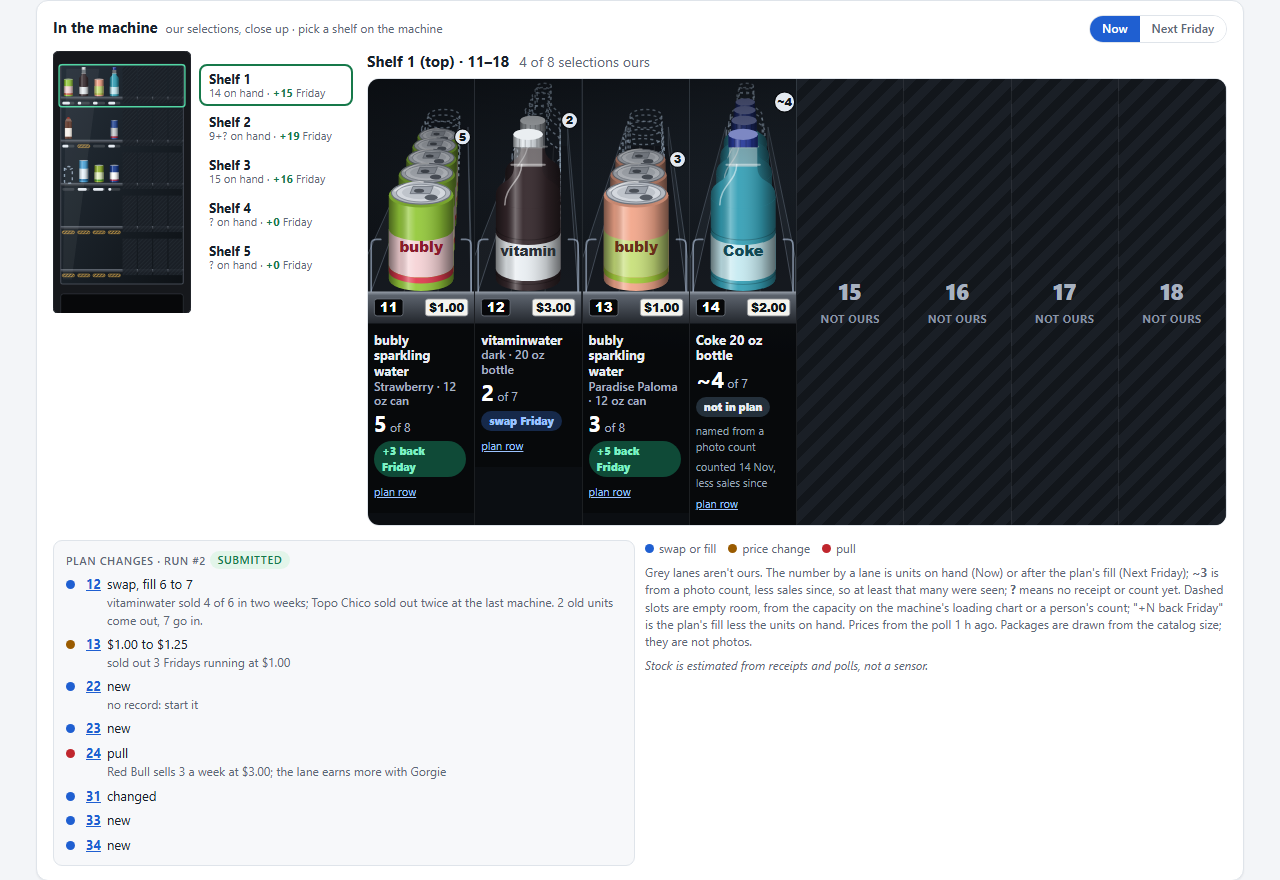
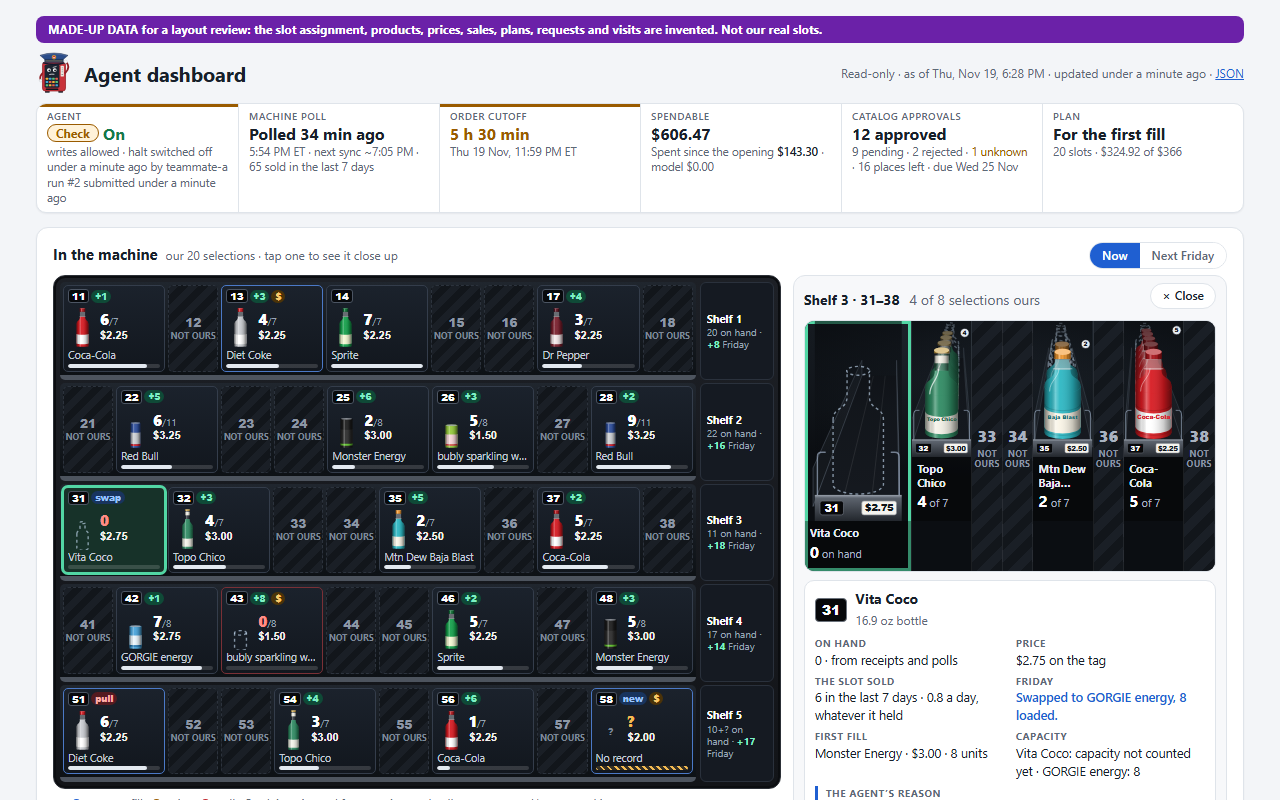
Docs: replace the dashboard pictures with the ops layout, made-up and labelled
current.png is the whole page; the four machine-closeup pictures show a
selection picked (light and dark), Next Friday after the slot lock, and
the phone's close-up sheet. All from a throwaway database with invented
data, a purple made-up-data banner and a scattered 20-slot assignment.
The captions say so and no longer describe columns.

diff --git a/docs/dashboard.md b/docs/dashboard.md
@@ -14,7 +14,7 @@ script or another agent.
 
 ![The dashboard with sample data](dashboard/current.png)
 
-*Sample data from a throwaway database, not a real run. **The highlighted columns in this picture are not our real slots.** For the screenshot our slots were set to columns 2, 4, 6 and 8, to show the page follows `vending.slots`. Our real slots are the ones the stored server assignment names (`python -m vending.slots`).*
+*Made-up data from a throwaway database, not a real run, and the purple banner says so. **The selections lit in this picture are not our real slots.** For the screenshot the stored assignment was set to 20 scattered selections, to show the page follows `vending.slots`. Our real slots are the ones the stored server assignment names (`python -m vending.slots`).*
 
 The money panel (#48), with seeded test data rendered at a fixed time (9 Dec): an opening of $600, two fulfilled
 requests, three model calls and one pending request. Light, dark and phone:
@@ -45,18 +45,18 @@ what changed and why.
 
 ### The machine close-up
 
-![In the machine, dark theme](dashboard/machine-closeup-dark.png)
+![In the machine with selection 31 picked, dark theme](dashboard/machine-closeup-dark.png)
 
 | | |
 |---|---|
 | ![Light theme](dashboard/machine-closeup-light.png) | ![Next Friday](dashboard/machine-closeup-next-friday.png) |
-| Light theme | Next Friday: a swap (12), a price change (13) |
+| Light theme, before the slot lock: 31 picked | After the lock, Next Friday: a swap (31), new prices (13, 43, 58), a pull (51) |
 
-![A 390 px phone](dashboard/machine-closeup-phone-390.png)
+![A 390 px phone, with the close-up open as a sheet](dashboard/machine-closeup-phone-390.png)
 
-*Sample data in a throwaway local database, not a real run: the products, prices, plan and reasons
-are made up, and our selections were set to columns 1 to 4 for the picture. Seeded the evening of
-15 Nov 2026.*
+*Made-up data in a throwaway local database, not a real run, and the purple banner says so: the
+slot assignment (20 scattered selections), products, prices, sales, plans, reasons, requests and
+visits are invented. Seeded 19 Nov 2026.*
 
 How to read a lane:
 
